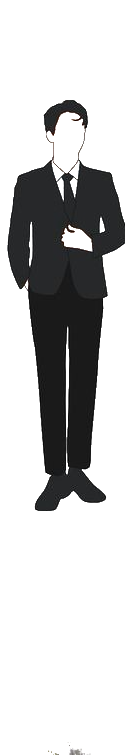
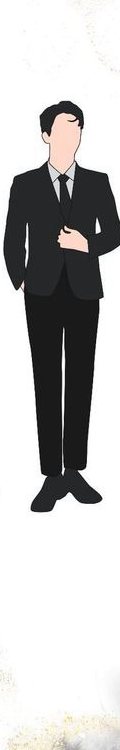
fix: figuras vestimenta con piel y brazos correctos, tamaño mayor
- Recrop sin colorkey: piel beige y brazos dama preservados
- mix-blend-mode: multiply elimina fondo blanco en navegador
- Altura aumentada clamp(220px,34vw,310px) para figuras más grandes

diff --git a/index.html b/index.html
@@ -342,7 +342,7 @@ h1 em,h2 em,h3 em{font-style:italic;font-weight:600;color:var(--gold)}
 .dc-figures{display:flex;align-items:stretch;justify-content:center;gap:0;max-width:520px;margin:0 auto 56px;}
 .dc-fig{flex:1;display:flex;flex-direction:column;align-items:center;padding:8px 18px 14px;}
 .dc-divider{width:1px;flex-shrink:0;margin:12px 0;background:linear-gradient(to bottom,transparent,var(--gold) 18%,var(--gold) 82%,transparent);opacity:.7;}
-.dc-svg{height:clamp(150px,22vw,190px);width:auto;display:block}
+.dc-svg{height:clamp(220px,34vw,310px);width:auto;display:block;mix-blend-mode:multiply;}
 .dc-fig-name{font-family:var(--display);font-weight:500;font-size:16px;color:var(--accent-deep);letter-spacing:.3em;margin-top:18px;text-transform:uppercase;padding-left:.3em;}
 .dc-fig-hint{font-family:var(--serif);font-style:italic;font-size:13px;color:var(--gold-deep);letter-spacing:.05em;margin-top:8px;text-align:center;line-height:1.55;font-weight:500;}
 
